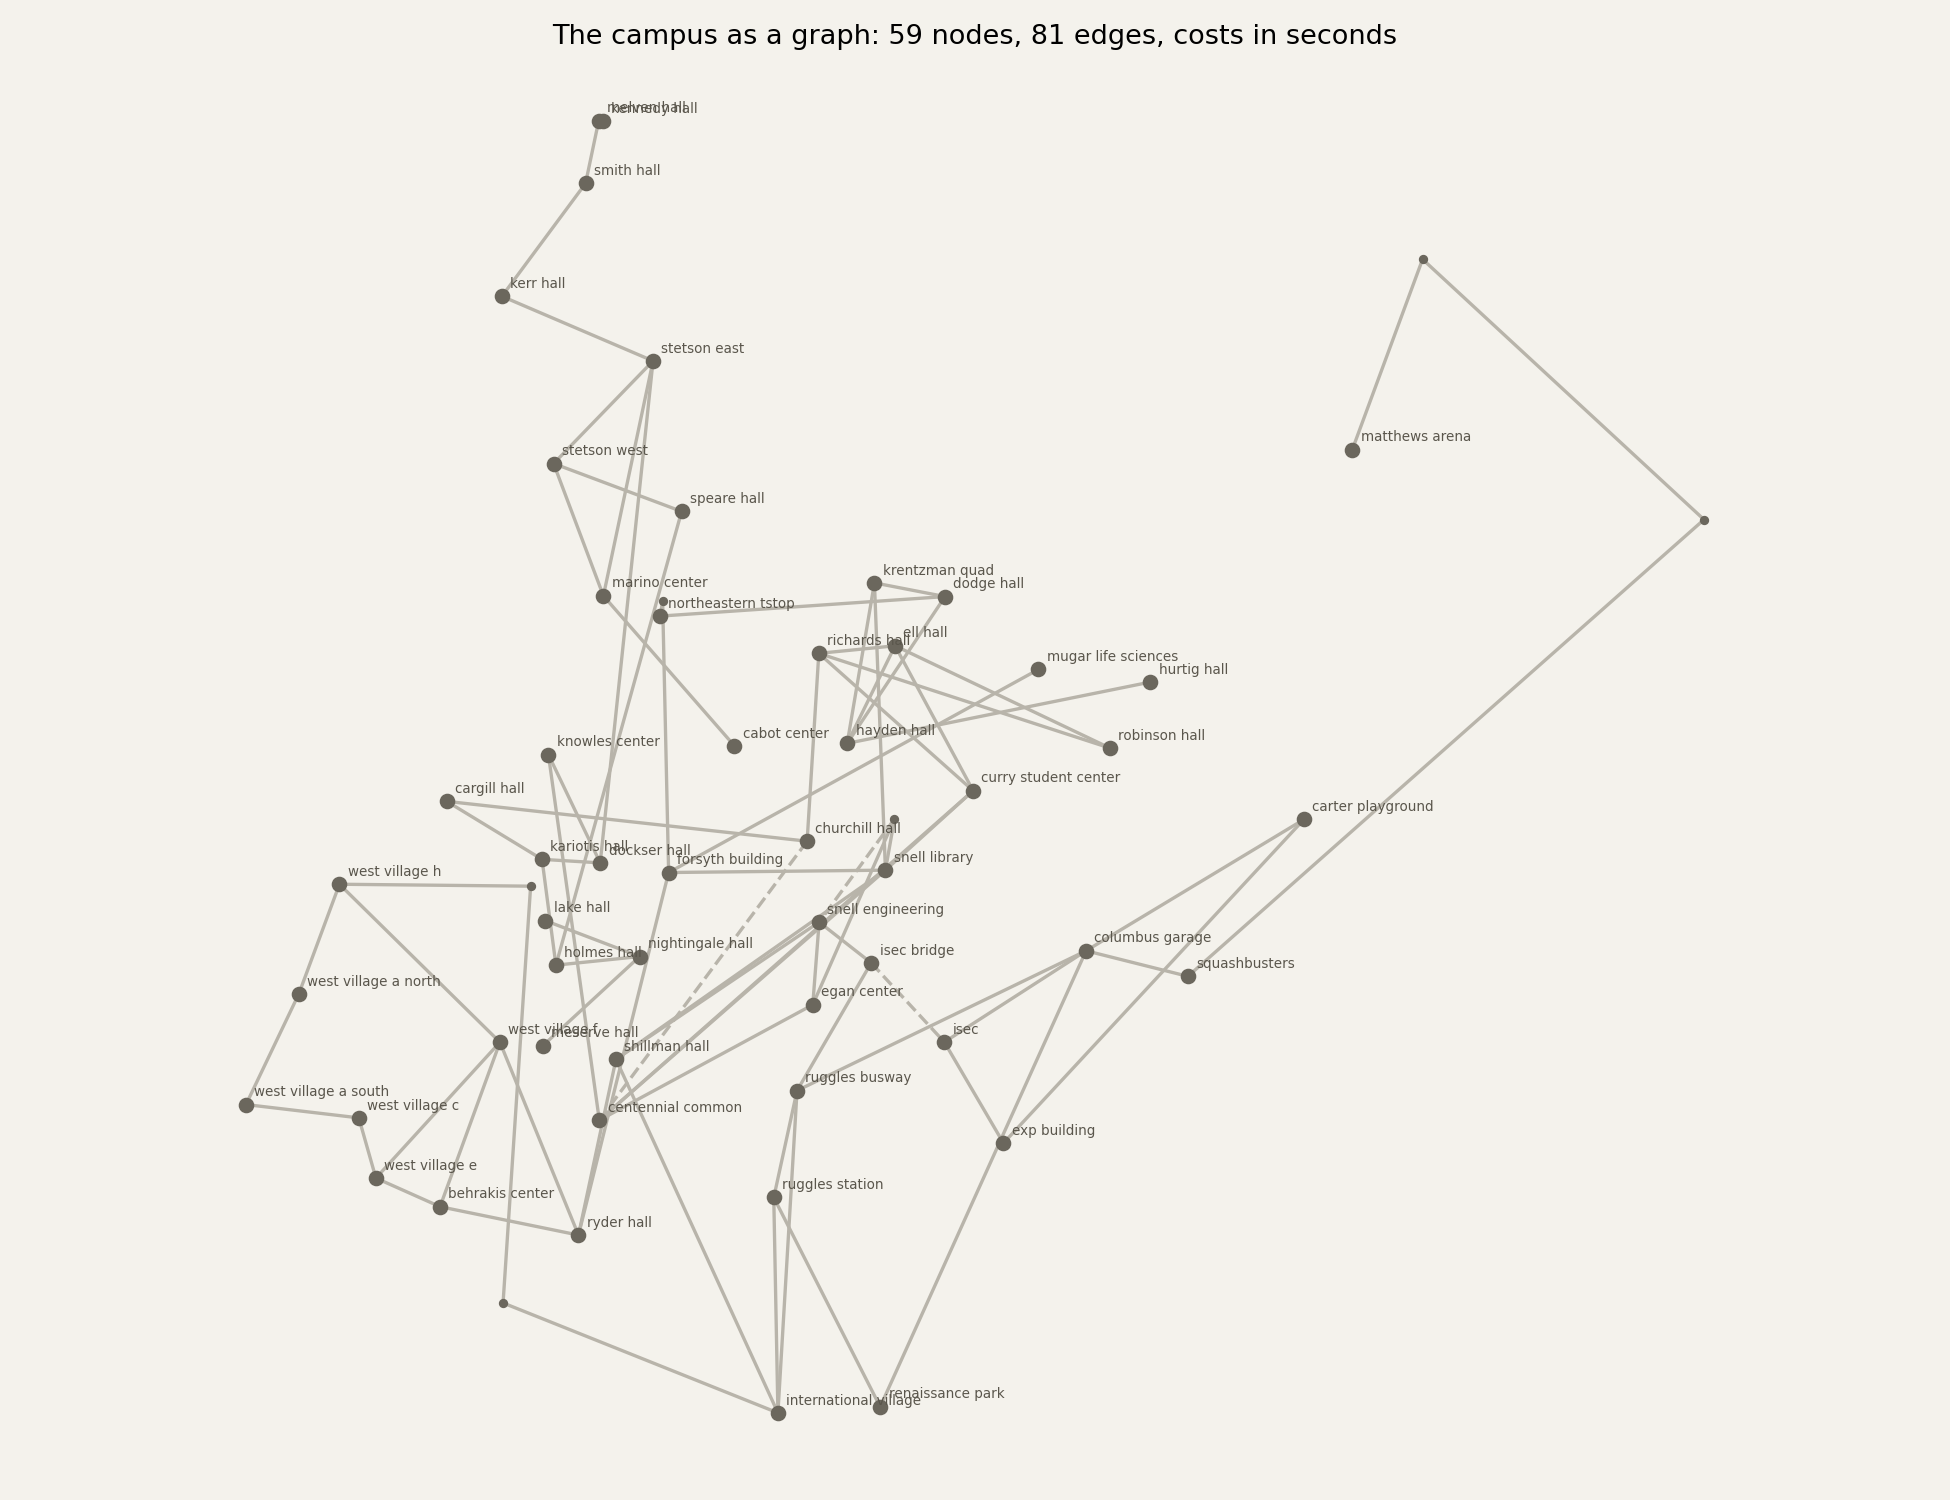
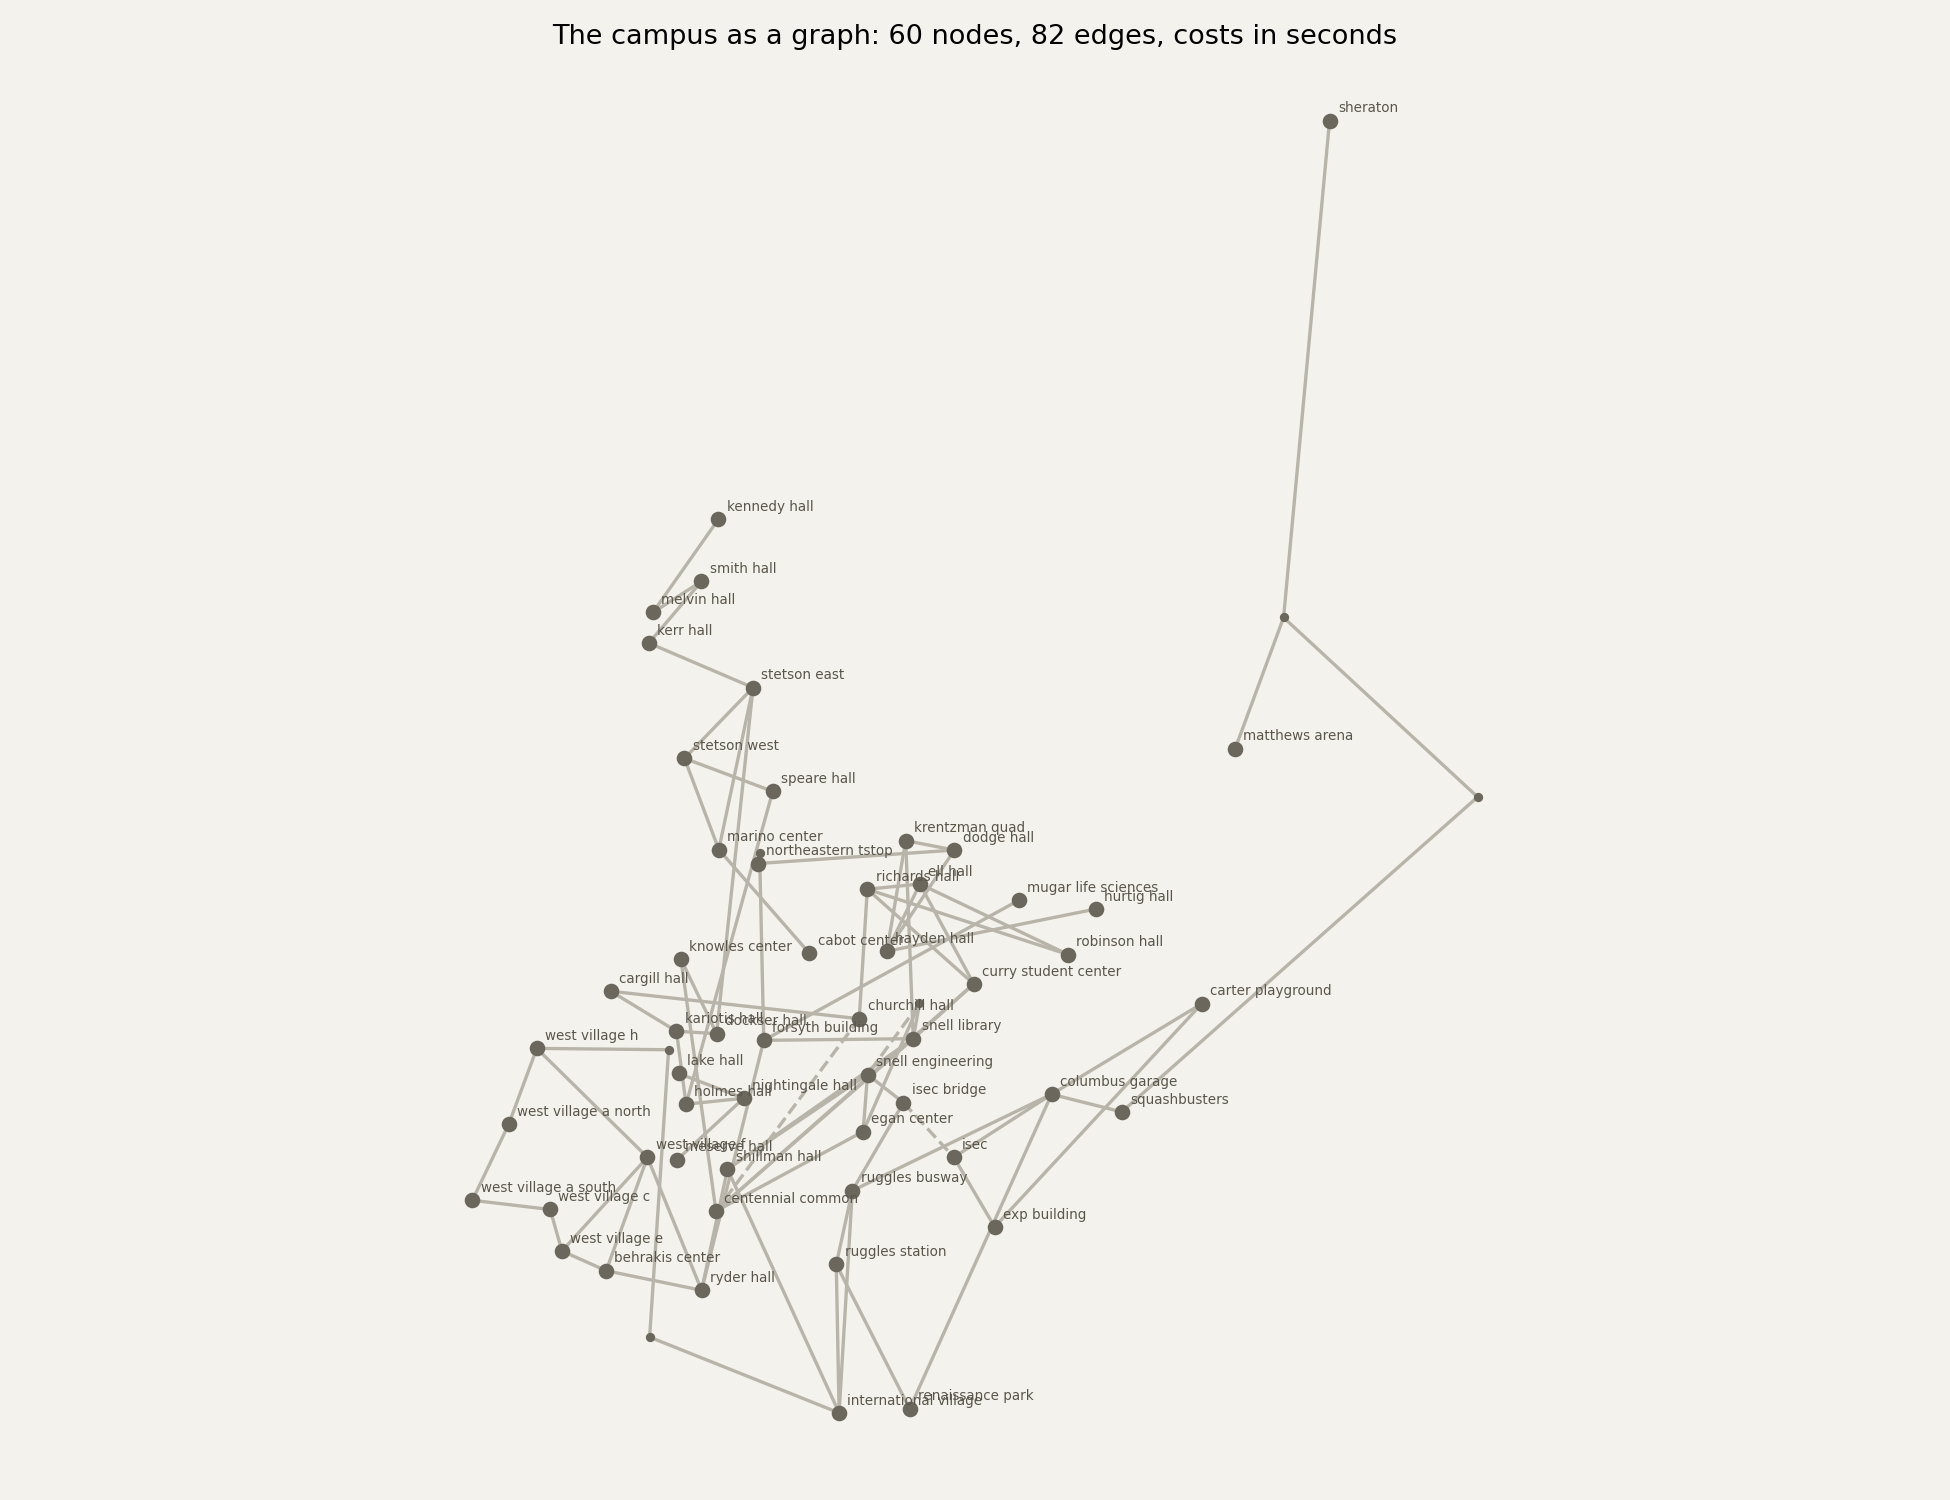
Fix the dorm cluster pins and add the sheraton
Kennedy and melvin were sitting on the same spot, melvin is actually
down by kerr hall (and it's melvin not melven). Smith moved to its real
spot too. Added the sheraton with its walk down mass ave, it really is
450m so the length check knows about it.

diff --git a/campus-routing/campus_nav.py b/campus-routing/campus_nav.py
@@ -58,10 +58,10 @@ LATLON = {
     "speare_hall": (42.340617402865625, -71.08979694016212),
     "stetson_west": (42.340890591415615, -71.09077779109043),
     "stetson_east": (42.34147578690803, -71.09001594732432),
-    "melven_hall": (42.34284667155145, -71.0904319387948),
-    "smith_hall": (42.34248846867329, -71.09053312404198),
+    "melvin_hall": (42.34209743145291, -71.09112880788709),
+    "smith_hall": (42.34235392397317, -71.09058919616557),
     "kerr_hall": (42.341844472639615, -71.09117392695374),
-    "kennedy_hall": (42.34284456776697, -71.09040062941312),
+    "kennedy_hall": (42.34286690587469, -71.09040180688608),
     "marino_center": (42.3401360210806, -71.09039632817314),
     "cabot_center": (42.3392797914226, -71.08939180384694),
     "matthews_arena": (42.3409700579917, -71.08465750590888),
@@ -75,6 +75,7 @@ LATLON = {
     "carter_playground": (42.33886021552859, -71.08502892728653),
     "renaissance_park": (42.33550992677049, -71.08827528382076),
     "ruggles_station": (42.33670399478578, -71.08909079369701),
+    "sheraton": (42.346166626688166, -71.08360805969579),
 
     # walkway corners, not buildings. these are here so routes bend like real
     # sidewalks instead of cutting through the middle of buildings.
@@ -214,10 +215,11 @@ EDGE_SPECS = [
     ("west_village_a_north", "west_village_h", "walk"),
 
     # dorms up past stetson
-    ("melven_hall", "kennedy_hall", "walk"),
-    ("melven_hall", "smith_hall", "walk"),
+    ("melvin_hall", "kennedy_hall", "walk"),
+    ("melvin_hall", "smith_hall", "walk"),
     ("smith_hall", "kerr_hall", "walk"),
     ("kerr_hall", "stetson_east", "walk"),
+    ("sheraton", "jct_mass_ave", "walk"),
 
 ]
 

diff --git a/campus-routing/check_graph.py b/campus-routing/check_graph.py
@@ -66,6 +66,8 @@ def check_admissible():
 KNOWN_LONG = {
     # the walk out to mass ave and along columbus to squashbusters
     frozenset(("jct_columbus_ave", "squashbusters")),
+    # the sheraton really is that far up mass ave
+    frozenset(("sheraton", "jct_mass_ave")),
 }
 
 

diff --git a/README.md b/README.md
@@ -20,8 +20,8 @@ so the router leans toward step free paths on its own.
 
 ## How it works
 
-Campus is modeled as a graph. Buildings and walkway corners are nodes (59 of
-them), sidewalks between them are edges (81), and each edge costs however many
+Campus is modeled as a graph. Buildings and walkway corners are nodes (60 of
+them), sidewalks between them are edges (82), and each edge costs however many
 seconds it takes to walk it. Finding a route is then a shortest path problem.
 
 The pipeline goes:
